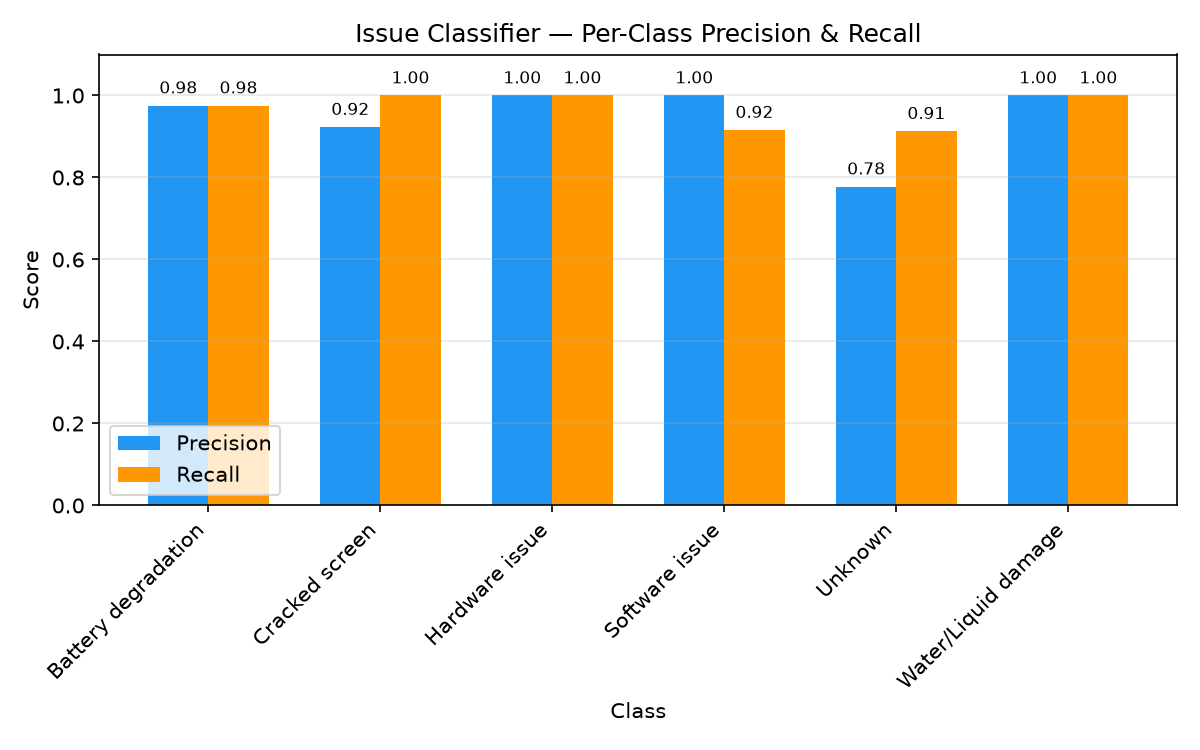
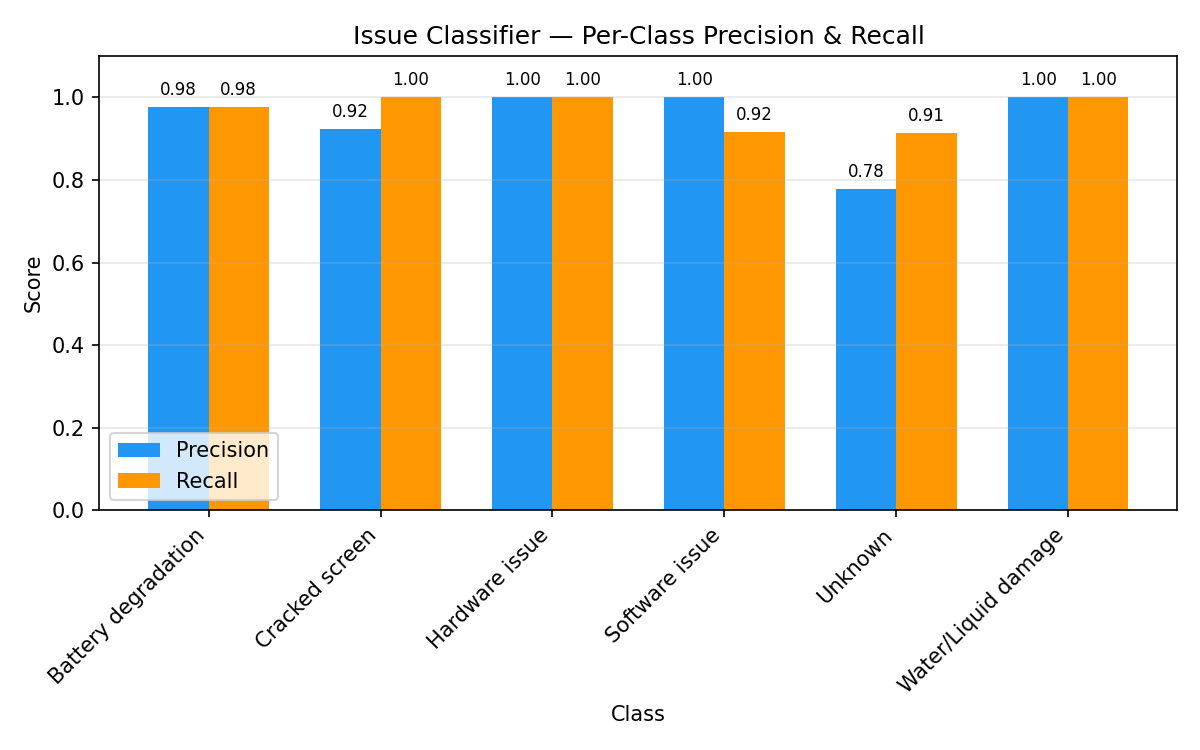
add: retrained models; update testing scripts

diff --git a/frontend/src/features/navigate/roadmapFilter.ts b/frontend/src/features/navigate/roadmapFilter.ts
@@ -153,7 +153,7 @@ const ML_DAMAGE_MAP: Record<string, IssueMap> = {
     },
   },
 
-  'water damage': {
+  'water/liquid damage': {
     priorityStepIds:    ['liquid_damage_first_aid', 'backup_data'],
     recommendedStepIds: ['charging_port_check', 'battery_check', 'find_repair_shop'],
     skipStepIds:  ['screen_check', 'overheating_check', 'motherboard_check', 'software_fix',
@@ -168,7 +168,7 @@ const ML_DAMAGE_MAP: Record<string, IssueMap> = {
     },
   },
 
-  'hardware failure': {
+  'hardware issue': {
     priorityStepIds:    ['motherboard_check', 'backup_data', 'find_repair_shop'],
     recommendedStepIds: ['check_warranty', 'battery_check', 'charging_port_check'],
     skipStepIds:  ['screen_check', 'liquid_damage_first_aid', 'overheating_check',
@@ -184,7 +184,7 @@ const ML_DAMAGE_MAP: Record<string, IssueMap> = {
     },
   },
 
-  'software issues': {
+  'software issue': {
     priorityStepIds:    ['software_diagnostics', 'software_fix'],
     recommendedStepIds: ['backup_data'],
     // Don't skip overheating — software can cause it (cryptomining malware, runaway process)

diff --git a/ml/tests/test_model_files.py b/ml/tests/test_model_files.py
@@ -1,4 +1,3 @@
-import json
 from pathlib import Path
 import pytest
 
@@ -10,7 +9,6 @@ MODELS_DIR = Path(__file__).resolve().parent.parent / "models"
     [
         "issue_classifier_voting.joblib",
         "repairability_voting_regressor.joblib",
-        "training_summary.json",
         "image_classifier_laptop.pth",
         "crack_detector.pth",
         "corrosion_detector.pth",
@@ -21,20 +19,6 @@ def test_model_file_exists(filename):
     if not filepath.exists():
         pytest.skip(f"{filename} not found — run: cd ml && python training/scripts/train_issue_classifier.py && python training/scripts/train_repairability_scorer.py")
     assert filepath.exists(), f"{filename} not found"
-
-
-def test_training_summary_readable():
-    summary_path = MODELS_DIR / "training_summary.json"
-    if not summary_path.exists():
-        pytest.skip("training_summary.json not found")
-
-    with open(summary_path) as f:
-        summary = json.load(f)
-
-    assert "issue_model" in summary
-    assert "repairability_model" in summary
-    assert "accuracy" in summary["issue_model"]
-    assert "r2" in summary["repairability_model"]
 
 
 def test_model_files_loadable():

diff --git a/ml/predict_unified.py b/ml/predict_unified.py
@@ -39,10 +39,10 @@ MODEL_PATH = Path(__file__).parent / "models"
 DAMAGE_CATEGORIES = [
     "Battery degradation",
     "Cracked screen",
-    "Water damage",
-    "Hardware failure",
-    "Software issues",
-    "Physical damage"
+    "Hardware issue",
+    "Software issue",
+    "Water/Liquid damage",
+    "Unknown",
 ]
 
 # Common laptop components for image classification

diff --git a/ml/tests/conftest.py b/ml/tests/conftest.py
@@ -91,9 +91,9 @@ def repairability_model():
 @pytest.fixture(scope="session")
 def issue_sample_df():
     """Load and sample 100 rows from the issue test dataset."""
-    csv_path = DATASETS_DIR / "pre_processed" / "processed_issue_dataset1.csv"
+    csv_path = DATASETS_DIR / "pre_processed" / "processed_issue_dataset.csv"
     if not csv_path.exists():
-        pytest.skip("processed_issue_dataset1.csv not found")
+        pytest.skip("processed_issue_dataset.csv not found")
     import pandas as pd
     df = pd.read_csv(csv_path)
     n = min(100, len(df))

diff --git a/ml/tests/test_issue_classifier_accuracy.py b/ml/tests/test_issue_classifier_accuracy.py
@@ -1,7 +1,7 @@
 """Accuracy tests for the NLP issue classifier.
 
 Loads the trained VotingClassifier and runs predictions against a golden
-dataset (processed_issue_dataset1.csv).  Asserts overall accuracy and
+dataset (processed_issue_dataset.csv).  Asserts overall accuracy and
 per-class recall to catch regressions during CI/CD.
 
 Estimated runtime: ~5s (model load + 100 inferences).